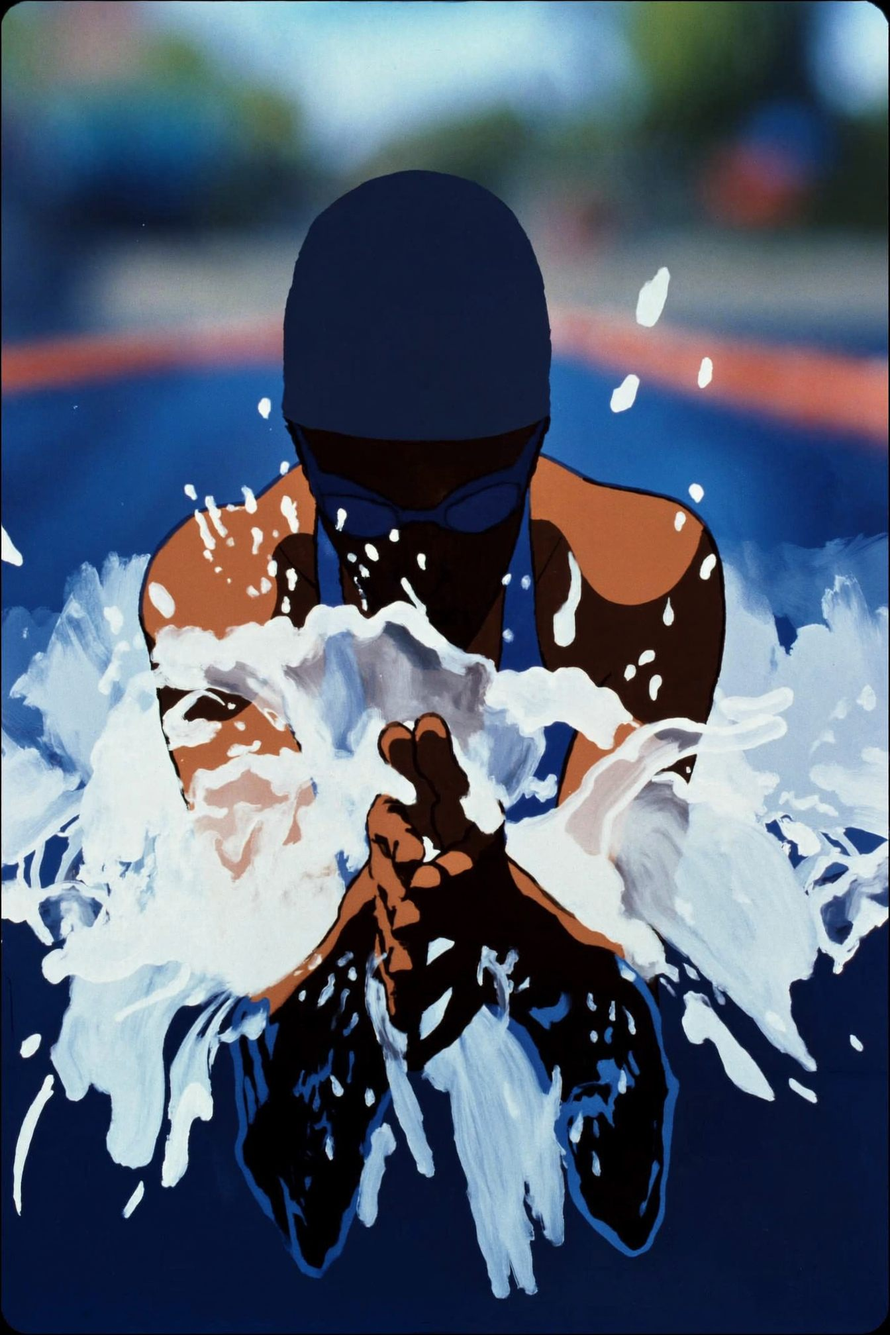
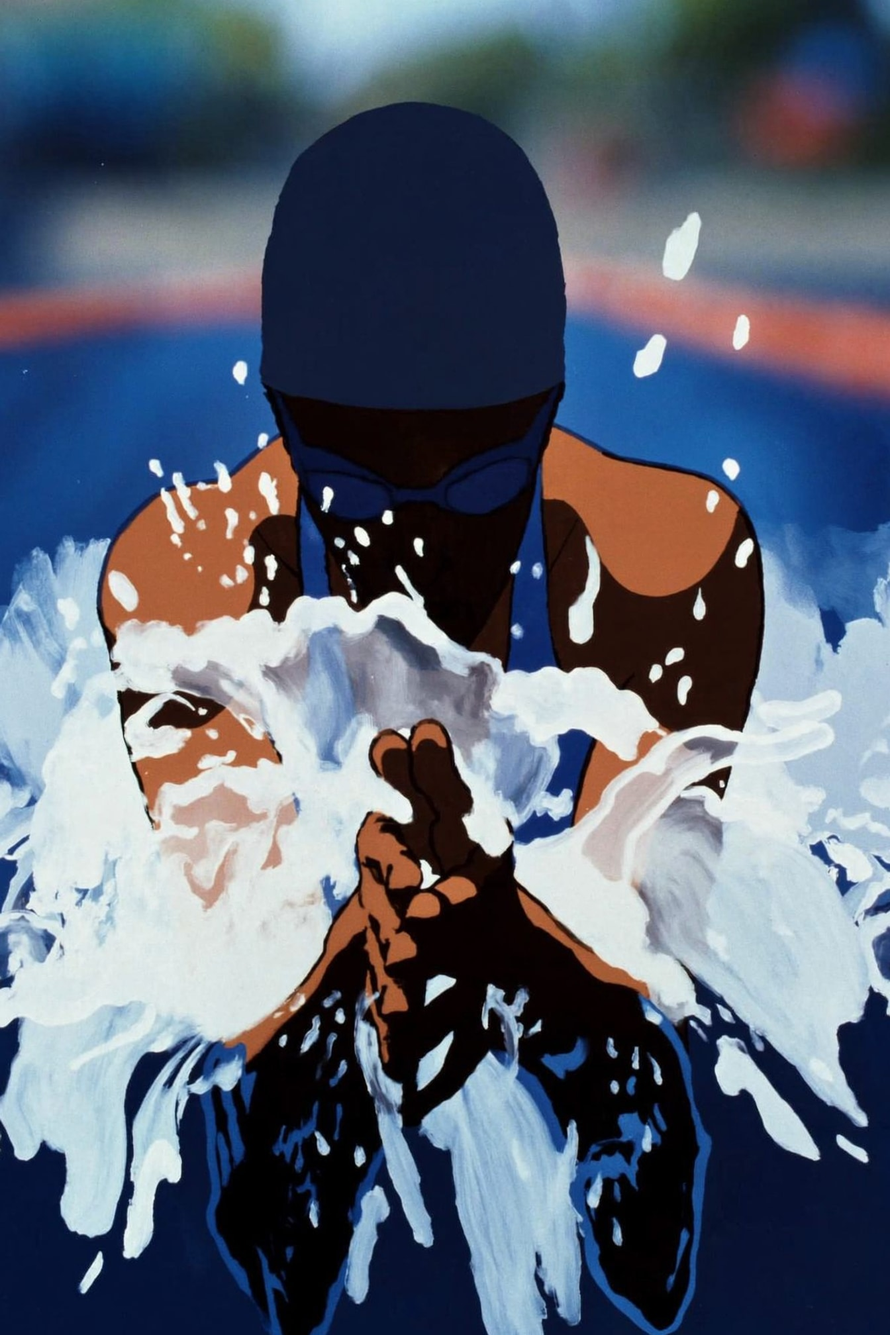
phase 16: about as a swimming lane
About becomes a full-bleed dark scene: a sticky pool backdrop with the
swimmer advancing up the lane on a breaststroke surge/glide curve as
the reader scrolls, existing content floating above on legibility
scrims. Generalizes ChapterRail's dark-scene check (previously
hard-coded to "contact") to cover both always-dark sections. Swaps the
swim facet card to the head-on splash alt image, re-cropped to remove
baked-in rounded-corner artifacts from its source.

diff --git a/src/components/About.tsx b/src/components/About.tsx
@@ -1,7 +1,11 @@
+"use client";
+
+import { useRef } from "react";
 import type { SiteContent } from "@/data/content";
 import { SectionHeading } from "./SectionHeading";
 import { MotionReveal } from "./motion/MotionReveal";
 import { Facets } from "./Facets";
+import { LaneBackdrop } from "./about/LaneBackdrop";
 
 export function About({
   about,
@@ -13,58 +17,87 @@ export function About({
   additional: SiteContent["additional"];
 }) {
   const [lead, ...rest] = about.paragraphs;
+  const sectionRef = useRef<HTMLElement>(null);
 
   return (
-    <section id="about" className="px-5 py-16 sm:px-8 sm:py-24">
-      <div className="mx-auto max-w-content">
-        <SectionHeading eyebrow="01 / About" title="Who I am" />
+    <section
+      id="about"
+      ref={sectionRef}
+      className="relative w-full overflow-clip plate-dark bg-bg min-h-[100svh]"
+    >
+      <LaneBackdrop sectionRef={sectionRef} />
 
-        <div className="mt-10 sm:mt-12">
-          {lead && (
-            <MotionReveal>
-              <p className="max-w-3xl font-serif text-2xl font-light leading-snug text-ink sm:text-3xl">
-                {lead}
-              </p>
-            </MotionReveal>
-          )}
+      <div className="relative z-10 -mt-[100svh]">
+        <div className="mx-auto max-w-content px-5 py-16 sm:px-8 sm:py-24">
+          <SectionHeading eyebrow="01 / About" title="Who I am" />
 
-          {rest.length > 0 && (
-            <div className="mt-12 grid gap-8 lg:grid-cols-2 lg:gap-12">
-              {rest.map((p, i) => (
-                <MotionReveal key={i} delay={i * 0.08}>
-                  <p className="text-base leading-relaxed text-muted">{p}</p>
-                </MotionReveal>
-              ))}
-            </div>
-          )}
-
-          <div className="mt-12 border-b border-line">
-            {education.map((e, i) => (
-              <MotionReveal key={e.school} delay={i * 0.07}>
-                <Row meta={e.timeframe}>
-                  <p className="font-serif text-lg font-light text-ink">{e.credential}</p>
-                  <p className="mt-1 text-sm text-muted">{e.school}</p>
-                </Row>
+          <div className="mt-10 sm:mt-12">
+            {lead && (
+              <MotionReveal>
+                <p className="max-w-3xl font-serif text-2xl font-light leading-snug text-ink sm:text-3xl">
+                  {lead}
+                </p>
               </MotionReveal>
-            ))}
-            <MotionReveal delay={education.length * 0.07}>
-              <Row meta="Languages">
-                <p className="font-serif text-lg font-light text-ink">
-                  {additional.languages.join(" · ")}
-                </p>
-              </Row>
-            </MotionReveal>
-            <MotionReveal delay={(education.length + 1) * 0.07}>
-              <Row meta="Beyond work">
-                <p className="font-serif text-lg font-light text-ink">
-                  {additional.activities.join(" · ")}
-                </p>
-              </Row>
-            </MotionReveal>
+            )}
+
+            {rest.length > 0 && (
+              <div className="relative mt-12">
+                <div
+                  aria-hidden="true"
+                  className="pointer-events-none absolute -inset-x-4 -inset-y-6 bg-bg/55 sm:-inset-x-6"
+                />
+                <div className="relative grid gap-8 lg:grid-cols-2 lg:gap-12">
+                  {rest.map((p, i) => (
+                    <MotionReveal key={i} delay={i * 0.08}>
+                      <p className="text-base leading-relaxed text-muted">{p}</p>
+                    </MotionReveal>
+                  ))}
+                </div>
+              </div>
+            )}
+
+            <div className="relative mt-12">
+              <div
+                aria-hidden="true"
+                className="pointer-events-none absolute -inset-x-4 -inset-y-2 bg-bg/55 sm:-inset-x-6"
+              />
+              <div className="relative border-b border-line">
+                {education.map((e, i) => (
+                  <MotionReveal key={e.school} delay={i * 0.07}>
+                    <Row meta={e.timeframe}>
+                      <p className="font-serif text-lg font-light text-ink">{e.credential}</p>
+                      <p className="mt-1 text-sm text-muted">{e.school}</p>
+                    </Row>
+                  </MotionReveal>
+                ))}
+                <MotionReveal delay={education.length * 0.07}>
+                  <Row meta="Languages">
+                    <p className="font-serif text-lg font-light text-ink">
+                      {additional.languages.join(" · ")}
+                    </p>
+                  </Row>
+                </MotionReveal>
+                <MotionReveal delay={(education.length + 1) * 0.07}>
+                  <Row meta="Beyond work">
+                    <p className="font-serif text-lg font-light text-ink">
+                      {additional.activities.join(" · ")}
+                    </p>
+                  </Row>
+                </MotionReveal>
+              </div>
+            </div>
+          </div>
+
+          <div className="relative">
+            <div
+              aria-hidden="true"
+              className="pointer-events-none absolute -inset-x-4 -inset-y-6 bg-bg/55 sm:-inset-x-6"
+            />
+            <div className="relative">
+              <Facets />
+            </div>
           </div>
         </div>
-
-        <Facets />
       </div>
     </section>
   );

diff --git a/src/components/about/LaneBackdrop.tsx b/src/components/about/LaneBackdrop.tsx
@@ -1,0 +1,111 @@
+"use client";
+
+import { useEffect, useState } from "react";
+import { motion, useReducedMotion, useScroll, useTransform } from "framer-motion";
+
+// Breaststroke curve: progress -> fraction of travel, in three surge/glide
+// cycles (surge = big fraction jump over a small slice of progress, glide =
+// the opposite). Strictly monotonic and ends exactly at 1 — this shape is
+// what reads as a stroke rather than a conveyor-belt drift.
+const PROGRESS = [0, 0.05, 0.09, 0.33, 0.38, 0.42, 0.66, 0.71, 0.75, 1.0];
+const TRAVEL_FRACTION = [0, 0.16, 0.24, 0.335, 0.5, 0.58, 0.665, 0.82, 0.9, 1.0];
+
+// Same beat as the travel curve — peaks where a surge lands, relaxes through
+// each glide — driving the pulse/roll/churn cues so they land on the pull.
+const PULSE_SCALE = [1, 1.015, 1.025, 1, 1.015, 1.025, 1, 1.015, 1.025, 1];
+const ROLL_DEG = [0, 0.35, 0.5, 0.05, -0.35, -0.5, -0.05, 0.35, 0.5, 0];
+const CHURN_OPACITY = [0, 0.35, 0.5, 0.05, 0.35, 0.5, 0.05, 0.35, 0.5, 0];
+const CHURN_SCALE = [0.9, 1.05, 1.15, 0.9, 1.05, 1.15, 0.9, 1.05, 1.15, 0.9];
+
+// Sway rides the same beat, quarter-cycle behind the pulse.
+const SWAY_PROGRESS = [0, 0.13, 0.17, 0.41, 0.46, 0.5, 0.74, 0.79, 0.83, 1.0];
+const SWAY_PCT = [0, 0.28, 0.4, 0.04, -0.28, -0.4, -0.04, 0.28, 0.4, 0];
+
+export function LaneBackdrop({
+  sectionRef,
+}: {
+  sectionRef: React.RefObject<HTMLElement>;
+}) {
+  const reduceMotion = useReducedMotion();
+  const { scrollYProgress } = useScroll({
+    target: sectionRef,
+    offset: ["start start", "end end"],
+  });
+
+  // travel = wrapper height − 100svh: 190svh - 100svh at sm+, 155svh - 100svh
+  // below sm (the shorter mobile wrapper keeps object-cover width-limited so
+  // her hands and the lane ropes aren't cropped at narrow viewports)
+  const [desktop, setDesktop] = useState(
+    () => typeof window !== "undefined" && window.matchMedia("(min-width: 640px)").matches
+  );
+  useEffect(() => {
+    const mq = window.matchMedia("(min-width: 640px)");
+    const update = () => setDesktop(mq.matches);
+    update();
+    mq.addEventListener("change", update);
+    return () => mq.removeEventListener("change", update);
+  }, []);
+  const travelMagnitude = desktop ? 90 : 55;
+
+  const travelFrac = useTransform(scrollYProgress, PROGRESS, TRAVEL_FRACTION);
+  const travelY = useTransform(travelFrac, (f) => {
+    const frac = reduceMotion ? 0.5 : f;
+    return `${-(frac * travelMagnitude)}svh`;
+  });
+
+  const pulseRaw = useTransform(scrollYProgress, PROGRESS, PULSE_SCALE);
+  const pulse = useTransform(pulseRaw, (v) => (reduceMotion ? 1 : v));
+
+  const rollRaw = useTransform(scrollYProgress, PROGRESS, ROLL_DEG);
+  const roll = useTransform(rollRaw, (v) => (reduceMotion ? 0 : v));
+
+  const swayRaw = useTransform(scrollYProgress, SWAY_PROGRESS, SWAY_PCT);
+  const sway = useTransform(swayRaw, (v) => (reduceMotion ? "0%" : `${v}%`));
+
+  const churnORaw = useTransform(scrollYProgress, PROGRESS, CHURN_OPACITY);
+  const churnO = useTransform(churnORaw, (v) => (reduceMotion ? 0 : v));
+
+  const churnSRaw = useTransform(scrollYProgress, PROGRESS, CHURN_SCALE);
+  const churnS = useTransform(churnSRaw, (v) => (reduceMotion ? 1 : v));
+
+  return (
+    <div className="sticky top-0 h-[100svh] overflow-hidden" aria-hidden="true">
+      <motion.div
+        style={{ y: travelY }}
+        className="absolute inset-x-0 top-0 h-[155svh] sm:h-[190svh]"
+      >
+        <motion.div
+          style={{ scale: pulse, rotate: roll, x: sway, transformOrigin: "50% 48%" }}
+          className="absolute -left-[5%] -right-[5%] -top-[2%] -bottom-[2%]"
+        >
+          <img
+            src="/media/facet-swim.jpg"
+            alt=""
+            aria-hidden="true"
+            className="h-full w-full object-cover -scale-y-100"
+            loading="lazy"
+            decoding="async"
+          />
+          <motion.div
+            aria-hidden="true"
+            style={{
+              x: "-50%",
+              y: "-50%",
+              opacity: churnO,
+              scale: churnS,
+              background: "radial-gradient(circle, rgb(var(--ink)) 0%, transparent 70%)",
+            }}
+            className="absolute left-1/2 top-[44%] h-[48svh] w-[48svh] sm:h-[60svh] sm:w-[60svh]"
+          />
+        </motion.div>
+      </motion.div>
+
+      {/* legibility stack — siblings of the travel layer, not children of it,
+          so their gradient stops read against the 100svh frame, not the
+          190svh travel wrapper */}
+      <div className="absolute inset-0 bg-bg/72" />
+      <div className="absolute inset-x-0 top-0 h-[22%] bg-gradient-to-b from-bg to-transparent" />
+      <div className="absolute inset-x-0 bottom-0 h-[28%] bg-gradient-to-t from-bg to-transparent" />
+    </div>
+  );
+}

diff --git a/src/components/ChapterRail.tsx b/src/components/ChapterRail.tsx
@@ -10,6 +10,7 @@ import { links } from "./Nav";
 // tracks overall scroll; the active chapter comes from an IntersectionObserver.
 // Mounted in page.tsx only — the root layout also wraps /admin, which gets no rail.
 const chapters = [{ href: "#top", label: "Prologue" }, ...links];
+const DARK_SCENES = new Set(["about", "contact"]);
 
 export function ChapterRail() {
   const [active, setActive] = useState("top");
@@ -48,10 +49,11 @@ export function ChapterRail() {
     else el.scrollIntoView({ behavior: "smooth" });
   };
 
-  // Contact is the always-dark full-page scene: the theme-driven text/accent
-  // colors that work everywhere else can resolve near-invisible over it in
-  // light theme, so this chapter pins them to the dark-palette values instead.
-  const onScene = active === "contact";
+  // About and Contact are always-dark full-page scenes: the theme-driven
+  // text/accent colors that work everywhere else can resolve near-invisible
+  // over them in light theme, so these chapters pin to the dark-palette
+  // values instead.
+  const onScene = DARK_SCENES.has(active);
 
   return (
     <nav

diff --git a/src/data/media.ts b/src/data/media.ts
@@ -44,9 +44,9 @@ export const facets: FacetMedia[] = [
     key: "swim",
     label: "The Swimmer",
     caption: "Breaststroke — early lengths",
-    image: "/media/facet-swim.jpg",
+    image: "/media/facet-swim-alt.jpg",
     video: null,
-    alt: "Stylised illustration — breaststroke down a pool lane, seen from above",
+    alt: "Stylised illustration — a breaststroke swimmer surfacing head-on in a burst of white spray, lane rope blurred behind",
   },
   {
     key: "paint",

diff --git a/REDESIGN-PROMPTS.md b/REDESIGN-PROMPTS.md
@@ -538,6 +538,86 @@ VERIFY: Report back: (a) the ranked issue list with what was fixed and what was 
 
 ---
 
+## PHASE 15 — The cross-section (scroll-exploded stack)
+
+The luxury-watch "layers separating on scroll" effect, but the object is Senudi's working model
+instead of a watch — so it carries information rather than decorating. CSS 3D transforms driven by
+natural scroll progress: no three.js, no pinning, no new dependencies.
+**Run this BEFORE Phase 14 — the brutal pass is always the last thing you run.**
+
+```text
+CONTEXT: Next.js 14 App Router portfolio, redesign phases 0–12 committed (+ the Work reorder; Phase 13's portrait optional). src/components/Projects.tsx renders the Work section: <section id="work" className="px-5 py-16 sm:px-8 sm:py-24"> → <SectionHeading eyebrow="03 / Work" title="How I've grown" /> → a MotionReveal intro paragraph about ordering → <Timeline> (flagship ProjectCards newest-first, Foundations closing) → PublicationCard. Available systems: framer-motion (useScroll/useTransform/useReducedMotion — the hero aperture in src/components/hero/HeroBridgeBand.tsx is the reference pattern for scroll-linked, NON-pinned progress), Lenis smooth scroll, .terminal-card hairline frames, .marker mono print markers ("+++ … +++"), the FIG chip recipe, green editorial palette (warm ochre / bridge pine / cool slate accents; dark = mint), Newsreader serif + IBM Plex Mono, CursorRing, global grain. HARD RULES from this pack: no pinned or hijacked scrolling anywhere, no glyph-shuffle text effects, transform/opacity only, every effect ships its reduced-motion fallback in the same commit, Lighthouse mobile ≥ 90. Admin (src/app/admin/**), src/lib/**, src/data/content.ts and the zod schema are OFF-LIMITS — this component's layer copy is hardcoded (it is a conceptual diagram, not editable content).
+
+GOAL: Open the Work chapter with an exploded cross-section of how Senudi works — five plates that begin fused as a single slab and separate into a labelled 3D stack as the reader scrolls in. It states her thesis (business ↔ engineering) as an object before the projects prove it.
+
+DO:
+1. New component src/components/work/StackCrossSection.tsx ("use client"), mounted in Projects.tsx between <SectionHeading> and the existing intro paragraph (that paragraph stays exactly where it is, directly above <Timeline>).
+2. Structure: a stage div with perspective: 1400px and a FIXED height (h-[58svh] sm:h-[66svh], so zero CLS), containing five absolutely-positioned plates centred in it. Each plate: w-full max-w-[34rem], aspect-[16/7], 1px border, translucent fill (bg-surface/70), transform-style: preserve-3d, and a shared base transform of rotateX(58deg) rotateZ(-32deg) — an isometric slab read from above-left.
+3. Layers, top → bottom (hardcoded copy; tint = the border + label colour):
+   01 THE ASK — "stakeholders, constraints, the actual problem" (warm)
+   02 THE TRANSLATION — "user stories, flows, acceptance criteria" (warm)
+   03 THE BRIDGE — "the decision that makes both sides work" (bridge — the hero layer: give it a slightly stronger border and a faint bridge-tinted glow)
+   04 THE BUILD — "components, endpoints, business logic" (cool)
+   05 THE DATA — "schema, queries, what is actually true" (cool)
+4. Motion: useScroll({ target: stageRef, offset: ["start 0.85", "end 0.35"] }) — plays as the section passes through the viewport, NEVER pinned. Map progress p (0→1) to each plate's translateY: plate i moves to -(i - 2) * SEP where SEP ≈ 8.5svh (so the middle BRIDGE plate holds position and the others spread symmetrically around it — the bridge is the anchor, which is the point). At p = 0 all plates sit at 0 (one fused slab); by p ≈ 0.75 they are fully separated. Use useTransform with a gentle ease; transform-only, no layout properties.
+5. Labels: mono uppercase number + name to the RIGHT of each plate, joined to it by a 1px leader line, with the descriptive line under it in text-muted. Labels fade+slide in staggered (60ms apart) as separation crosses ~40%. They are real text, never baked into anything.
+6. Interaction (mirrors the facets cross-wiring): each label is a focusable element; hovering or FOCUSING a label brightens its plate (fill → bg-surface, border → its tint at full strength) and dims the other four with an opacity-only wash; hovering a plate highlights its label. Keyboard parity is mandatory — focus does exactly what hover does. Add a small "+++ THE CROSS-SECTION +++" marker above the stage.
+7. Responsive: below sm, flatten the isometry (rotateX ≈ 34deg, rotateZ ≈ -18deg), reduce SEP to ~6svh, and move labels UNDER each plate if they would overflow; if it still feels cramped at 375px, render the flat fallback instead — five stacked hairline bars with their labels, no 3D, no scroll-linking (state which path you took).
+8. Reduced motion: render fully separated and static with all labels visible — it becomes a clean labelled architecture diagram. No scroll listener at all in that branch.
+9. Accessibility: the stage is an <ol> (or a list with role semantics) so the five layers read as an ordered list to screen readers; decorative leader lines and glows aria-hidden; visible focus ring on each label against the ivory page in both themes.
+
+CONSTRAINTS: No pinning/scroll-hijack; no new dependencies; transform/opacity only; fixed stage height (zero CLS); no content/schema/admin/lib changes; both themes; TypeScript strict; the existing Work intro paragraph, Timeline, Foundations grouping and PublicationCard are untouched.
+
+VERIFY: `npm run build` passes. Scrolling into Work fuses→separates the five plates smoothly with no scroll hijack (the page never feels held); the BRIDGE plate stays anchored while the others spread; labels stagger in and the hover/focus cross-wiring works both directions with keyboard parity; reduced motion shows the diagram fully separated and static; 375px has no horizontal overflow and the layer copy is readable; both themes; Lighthouse mobile still ≥ 90 (this adds five transformed divs — it should cost nothing, confirm). Commit "phase 15: work cross-section".
+```
+
+---
+
+## PHASE 16 — The lane: About as a swimming scene
+
+About becomes a full-section cinematic scene — the top-down pool illustration filling it edge to
+edge, the swimmer travelling up the lane as the reader scrolls, all About content floating on top.
+Mechanically this is Phase 12's contact-scene pattern (which is the pattern that WORKS); the new
+part is the scroll-driven swim. **Run before PHASE 14 — the brutal pass is always last.**
+
+```text
+CONTEXT: Next.js 14 App Router portfolio. Phases 0–12 committed (ed57331 = "phase 12: full-page contact map scene") plus the Work reorder (50989e5). Phases 13, 14 and 15 are NOT in — About has no portrait plate and public/media/portrait.jpg does not exist — so the element list in DO step 2 is exhaustive; do not go looking for a portrait plate to preserve. (HEAD 0533dc7 is mislabelled "phase 11" but its diff touches only REDESIGN-PROMPTS.md.) About (src/components/About.tsx) currently holds: chapter SectionHeading, an oversized serif pull-quote (first about paragraph), the remaining paragraphs in two columns on lg+, education/additional editorial list rows, and at the end the Facets band (index rail + asymmetric contact-sheet cluster, src/components/Facets.tsx + FacetCard.tsx, driven by src/data/media.ts). PROVEN PATTERN TO COPY — src/components/Contact.tsx from Phase 12: the section carries .plate-dark (a globals.css utility assigning all nine palette variables the .dark block's values, so everything inside renders dark-theme styling in BOTH themes), the section itself carries NO padding (Contact.tsx:64 is exactly `relative w-full overflow-clip plate-dark bg-bg min-h-[100svh]`; the padding lives on the inner content wrapper, Contact.tsx:85), its FIRST child is a sticky frame, and the content wrapper follows as relative z-10 -mt-[100svh]. NOTE: BaseMap is NOT a precedent for scroll-linking — it only uses useInView on its own ref and never reads the section's scroll progress. Media manifest src/data/media.ts holds facets[] including { key: "swim", image: "/media/facet-swim.jpg" } and the unused spare public/media/facet-swim-alt.jpg. framer-motion 12 useScroll/useTransform/useReducedMotion available; Lenis smooth scroll; HARD RULES: no pinned/hijacked scrolling (a sticky backdrop under freely-scrolling content is NOT a pin — content scroll speed is never altered), transform/opacity only, reduced-motion fallback in the same commit, Lighthouse mobile ≥ 90. Admin (src/app/admin/**), src/lib/**, src/data/content.ts, zod schema OFF-LIMITS.
+
+GOAL: The About chapter becomes a lane. The pool illustration fills the whole section edge to edge, the swimmer advances up it as the reader scrolls (with breaststroke rhythm, not conveyor-belt drift), and every existing About element floats above it — legibly.
+
+MEASURED ASSET FACTS (verified — do not re-derive): /media/facet-swim.jpg is 1344×2016 (exactly 2:3). The swimmer is oriented HEAD-DOWN in the source: toes at 31.5% of image height, torso 45–52%, hands 50.8%, white cap 55.8–61.7% (centre 58.7%), kick wake trailing from 26% up to 6%. She is horizontally centred (body axis 51.8%, arm span 31.4%–69.0%). Her full figure spans 30.2% of image height. Both lane ropes sit at the extreme left/right edges (0–8.2% and 93.5–100%).
+
+DO:
+1. New component src/components/about/LaneBackdrop.tsx ("use client"), props { sectionRef }: { sectionRef: React.RefObject<HTMLElement> }. THREE nested layers plus frame-sized siblings — do not collapse them into one:
+   - FRAME: <div className="sticky top-0 h-[100svh] overflow-hidden" aria-hidden="true">. overflow-hidden HERE is required and safe — the "never overflow-hidden" rule applies to ANCESTORS of a sticky element, not to the sticky element itself. Without it the 190svh media layer paints far below the frame, behind the paragraph columns, with no wash over it.
+   - L1 TRAVEL: <motion.div style={{ y: travelY }} className="absolute inset-x-0 top-0 h-[155svh] sm:h-[190svh]"> — scroll travel ONLY, nothing else on this layer. The responsive height is not cosmetic: object-cover is width-limited only when viewportWidth > 1.2667 × viewportHeight, so at 390×844 a 190svh wrapper goes HEIGHT-limited and crops to just 36.5% of the image width, clipping both her hands and both lane ropes. 155svh restores 44.7% at 390×844 and 54.4% at 375×667.
+   - L2 STROKE: <motion.div style={{ scale: pulse, rotate: roll, x: sway, transformOrigin: "50% 48%" }} className="absolute -left-[5%] -right-[5%] -top-[2%] -bottom-[2%]"> holding the <img>. The negative insets are mandatory overscan: a 0.5deg roll on a viewport-wide, ~1700px-tall box displaces its corners ~7.5px and the sway adds ~6px, so without overscan a wedge of bare near-black section background flickers in at both edges on every glide. Use INSETS, never a resting scale (a permanent upscale resamples the whole layer for nothing). transformOrigin 50% 48% puts the pivot on her centre of mass (wrapper-y 47.5% desktop / 48.0% mobile) instead of a point up to 45svh off-screen — that difference is what separates "her body rolling" from "the image shearing".
+   - THE IMAGE: <img src="/media/facet-swim.jpg" alt="" aria-hidden className="h-full w-full object-cover -scale-y-100" loading="lazy" decoding="async" />. The -scale-y-100 is REQUIRED: the source is head-down, so without the flip she swims feet-first. The image is vertically near-symmetric (straight lane ropes, straight floor stripe) so the flip is invisible. About sits just below the fold — do NOT priority-load; the hero headline must stay LCP.
+   - THE SWIM: useScroll({ target: sectionRef, offset: ["start start", "end end"] }) drives travelY from 0 to -55svh below sm / -90svh at sm and up (rule: travel = wrapper height − 100svh). The offset is critical — ["start end","end start"] spans S+100svh of scroll while the frame is only pinned for S−100svh of it, so barely half the travel would be spent on screen and she would rocket in, crawl through the scene, and rocket out (a 5.4× speed inversion). ["start start","end end"] IS the sticky range: she traverses a full 90% of the frame while pinned, entering just below the bottom edge and exiting at the top. Direction check after the flip: at progress 0 her white cap sits roughly mid-frame with her feet BELOW the bottom edge.
+   - BREASTSTROKE RHYTHM: do not map progress linearly. Feed useTransform a multi-stop curve of ~8–10 pairs alternating SURGE segments (large travel over small progress — the pull) and GLIDE segments (small travel over large progress — the streamline), about 3 cycles across the PINNED range, strictly monotonic, ending exactly at the travel end. This is the whole difference between "a moving background" and "someone swimming" — tune it until it feels like a stroke.
+   - THE STROKE cues, all driven from the SAME surge/glide curve so they land on the pull and release on the glide (this is what makes her SWIM rather than slide):
+     (a) Body pulse — L2 scales 1.0 → 1.025 through each surge, easing back over the glide.
+     (b) Roll — ±0.5deg on the same beat about the 50%/48% origin (keep under 0.6deg).
+     (c) Sway — ±0.4% translateX on the same beat, phase-shifted a quarter cycle behind the pulse.
+     (d) Water churn — an aria-hidden radial-gradient div INSIDE L2 (so it rides with her): className="absolute left-1/2 top-[44%] h-[48svh] w-[48svh] sm:h-[60svh] sm:w-[60svh]", opacity 0 → ~0.5 and scale 0.9 → 1.15 on each surge, fading through the glide. CRITICAL: never mix Tailwind translate utilities with framer-motion transforms on the same element — motion's inline transform silently overwrites -translate-x-1/2, landing the churn's top-left corner on the anchor instead of its centre. Centre it INSIDE the style object: style={{ x: "-50%", y: "-50%", opacity: churnO, scale: churnS }}. Measured with the flip: her cap lands at wrapper-y 39.0% (desktop) / 41.3% (mobile) and her hands at 49.0% / 49.2%, so top-[44%] splits the pull region within 1.3pp everywhere. Size MUST be in svh, not % of width — her arm span is 37.6% of wrapper width on desktop but 103% at 390px. Fade the radial to transparent by ~70% so its exact edge never matters.
+     Verify the composite reads as swimming, not as a jittering photo — if any single cue is noticeable on its own, it is too strong. All four are disabled under reduced motion. Do NOT hard-code will-change-transform: framer-motion 12 manages it while values animate, and pinning three full-bleed layers costs ~22 MB each at 390×844/DPR3.
+   - LEGIBILITY STACK — these are absolute inset-0 SIBLINGS of L1 inside the frame, never children of it (inside a 190svh wrapper a "22%" gradient stop becomes 41.8svh and slides up with the image): a full wash of bg-bg/72 (under .plate-dark, --bg is the near-black value and --ink is the LIGHT one — the wash must be bg-bg, never bg-ink), then a top gradient from-bg to transparent (~22%) and a bottom gradient to-bg (~28%). These anchor text at the scene's edges; they do NOT blend into the neighbouring sections and must not be tuned as if they could — Hero above and Skills below (bg-surface) are ivory in light theme, so About meets its neighbours as a deliberate cut, exactly as Contact already does.
+   - REDUCED MOTION: no scroll listener at all; render L1 static at translateY −27.5svh below sm / −45svh at sm and up (half the travel — NOT half the wrapper; −95svh is outside the valid range and would leave an uncovered strip and crop her legs). Verified: those values frame her whole figure with ≥2.3pp margin at 1440×900, 1280×800, 390×844 and 375×667.
+   - VIDEO UPGRADE PATH (drop-in later, no redesign): if a real 5s breaststroke loop is ever generated (Higgsfield image-to-video from this exact still, ~7.5 credits), replace the <img> with <video muted loop playsInline autoPlay poster={the still}> at the same object-cover sizing and DELETE cues (a)–(d) — the video supplies the actual stroke while the scroll travel stays. Do not scroll-scrub currentTime (janky on mobile Safari); let it loop freely.
+2. About.tsx: add "use client" — it is currently the only SERVER component in its subtree and cannot create the ref the swim needs (all its props are plain serializable data, so the directive is safe). Add const sectionRef = useRef<HTMLElement>(null), put it on the section, and render <LaneBackdrop sectionRef={sectionRef} /> as the first child. The section becomes exactly `relative w-full overflow-clip plate-dark bg-bg min-h-[100svh]` — copy Contact.tsx:64 verbatim. Its current padding (px-5 py-16 sm:px-8 sm:py-24) MUST move off the section onto the inner content wrapper; left on the section it becomes the sticky frame's containing block and the lane renders inset, framed by bare bg-bg — the opposite of edge to edge. Every existing element (SectionHeading, pull-quote, paragraph columns, education/additional rows, Facets band) moves into the relative z-10 -mt-[100svh] wrapper in the SAME order with the same content plumbing; keep its top padding ≥ 5rem at sm+, because overflow-clip newly clips SectionHeading's ghost numeral (absolute -top-14 sm:-top-20).
+3. Legibility discipline for the content (the Phase 10 rule): the oversized serif pull-quote may sit on the wash alone; body-size text may not. Give the paragraph columns and the education/additional rows an aria-hidden soft gradient scrim behind them (or a subtle bg-bg/55 panel) so small text always has a floor. Spot-check AA in both themes. There are ZERO Tailwind `dark:` variants anywhere in src (verify with `rg 'dark:' src` — no matches); theming is entirely CSS-variable driven, so About/Facets/FacetCard re-tone cleanly under .plate-dark and need no audit. The real light-theme risk is elements that float OVER the scene from OUTSIDE the subtree and therefore resolve :root's palette — see step 7.
+4. Swap the swimmer facet so the same image is not both backdrop and card: in src/data/media.ts point the "swim" facet's image at "/media/facet-swim-alt.jpg" and update its alt to describe the head-on splash. Caption/label unchanged. Eyeball the swap before committing: facet-swim-alt.jpg is the right subject but a very different register from the other three studies — saturated cobalt/orange poster art with light rounded corners baked into the pixels, which read as pale arcs inside the card's square frame. If it fights the set, keep the top-down image on the card and accept the repetition, or re-crop the alt.
+5. Facets band on the scene: the four cards are ALREADY opaque (FacetCard's frame is aspect-[2/3] overflow-hidden border border-line with DitherMedia absolute inset-0, whose root carries bg-bg and settles on a full-bleed opaque <img>), and DitherMedia re-tones itself under plate-dark automatically (it reads --ink/--bg off its own wrapper). So add no fill — it would be entirely covered. If the cluster needs to read as plates ON the scene rather than images floating in images, use a visible margin instead: a stronger local wash (bg-bg/85) behind the band, or a hairline outer frame. Do not remove the band.
+6. Section rhythm check: Contact is already a full-page dark scene, so the page now reads ivory → DARK lane → ivory skills → ivory work → DARK map. Verify the two dark scenes feel like deliberate bookends rather than repetition; if the About scene weakens Contact's finale, lighten About's wash slightly (bg-bg/60) so Contact stays the darkest, densest moment on the site.
+7. ChapterRail (src/components/ChapterRail.tsx) floats over every section (fixed right-6 top-1/2 z-40, mounted in page.tsx outside <main>) and resolves its palette from :root, not from the section it overlaps. Line 54 is `const onScene = active === "contact";` — a single hard-coded id from Phase 12. About becoming a second dark scene reproduces that bug verbatim: in light theme the active label (text-ink, rgb 24 32 26) lands on rgb(17 22 19) at ~1.05:1, i.e. invisible. Generalise it: `const DARK_SCENES = new Set(["about", "contact"]); const onScene = DARK_SCENES.has(active);`. Nothing else in the file changes — its three on-scene branches already hard-code the dark-palette literals.
+
+CONSTRAINTS: No content/schema/admin/lib changes (except the one media.ts image path in step 4); both themes render the identical dark scene; transform/opacity only; zero CLS; LCP stays the hero headline; TypeScript strict. The sticky frame height and the content pull-up MUST use the same unit — h-[100svh] with -mt-[100svh]. Never dvh or vh: svh is fixed against the address-bar-expanded height and cannot jump mid-scroll, dvh can. (Corollary: once the bar collapses the frame ends ~90–100px above the visible bottom — benign only because the bottom gradient resolves to bg-bg, so do not shorten the ~28% bottom stop.)
+
+VERIFY: `npm run build` passes. Scrolling through About makes the swimmer travel UP the lane HEAD-FIRST with a stroke-like surge-and-glide (not a constant slide); the backdrop sticks while content scrolls over it; the page never feels scroll-hijacked. No bare background wedge appears at the frame edges during any glide (the overscan test). All About text is legible in BOTH themes (small text on scrims/panels — check the education rows and facet captions specifically). The chapter rail is readable over the About scene in LIGHT theme — active label, inactive labels, ticks and needle (Phase 12's check, re-run for the second dark scene). The swim facet card shows the head-on splash. Reduced motion: static scene, her whole figure in frame, everything readable. 390×844 and 375×667: no horizontal overflow, her hands and the central floor stripe visible (the lane ROPES are cropped out on every portrait phone at any wrapper height that still yields useful travel — that is expected, the lane must read from the floor stripe alone; do not chase the ropes on mobile). Measure About's rendered height — the swim only plays over (height − 100svh), so it needs ≥ ~250svh; it currently measures ~270svh desktop / ~400svh mobile. Lighthouse mobile ≥ 90 and LCP still the hero headline. Commit "phase 16: about as a swimming lane".
+```
+
+---
+
 ## Swapping in real footage of Senudi (later, no code changes)
 
 When short clips of the real Senudi exist (coding, breaststroke, painting, thinking — and optionally
